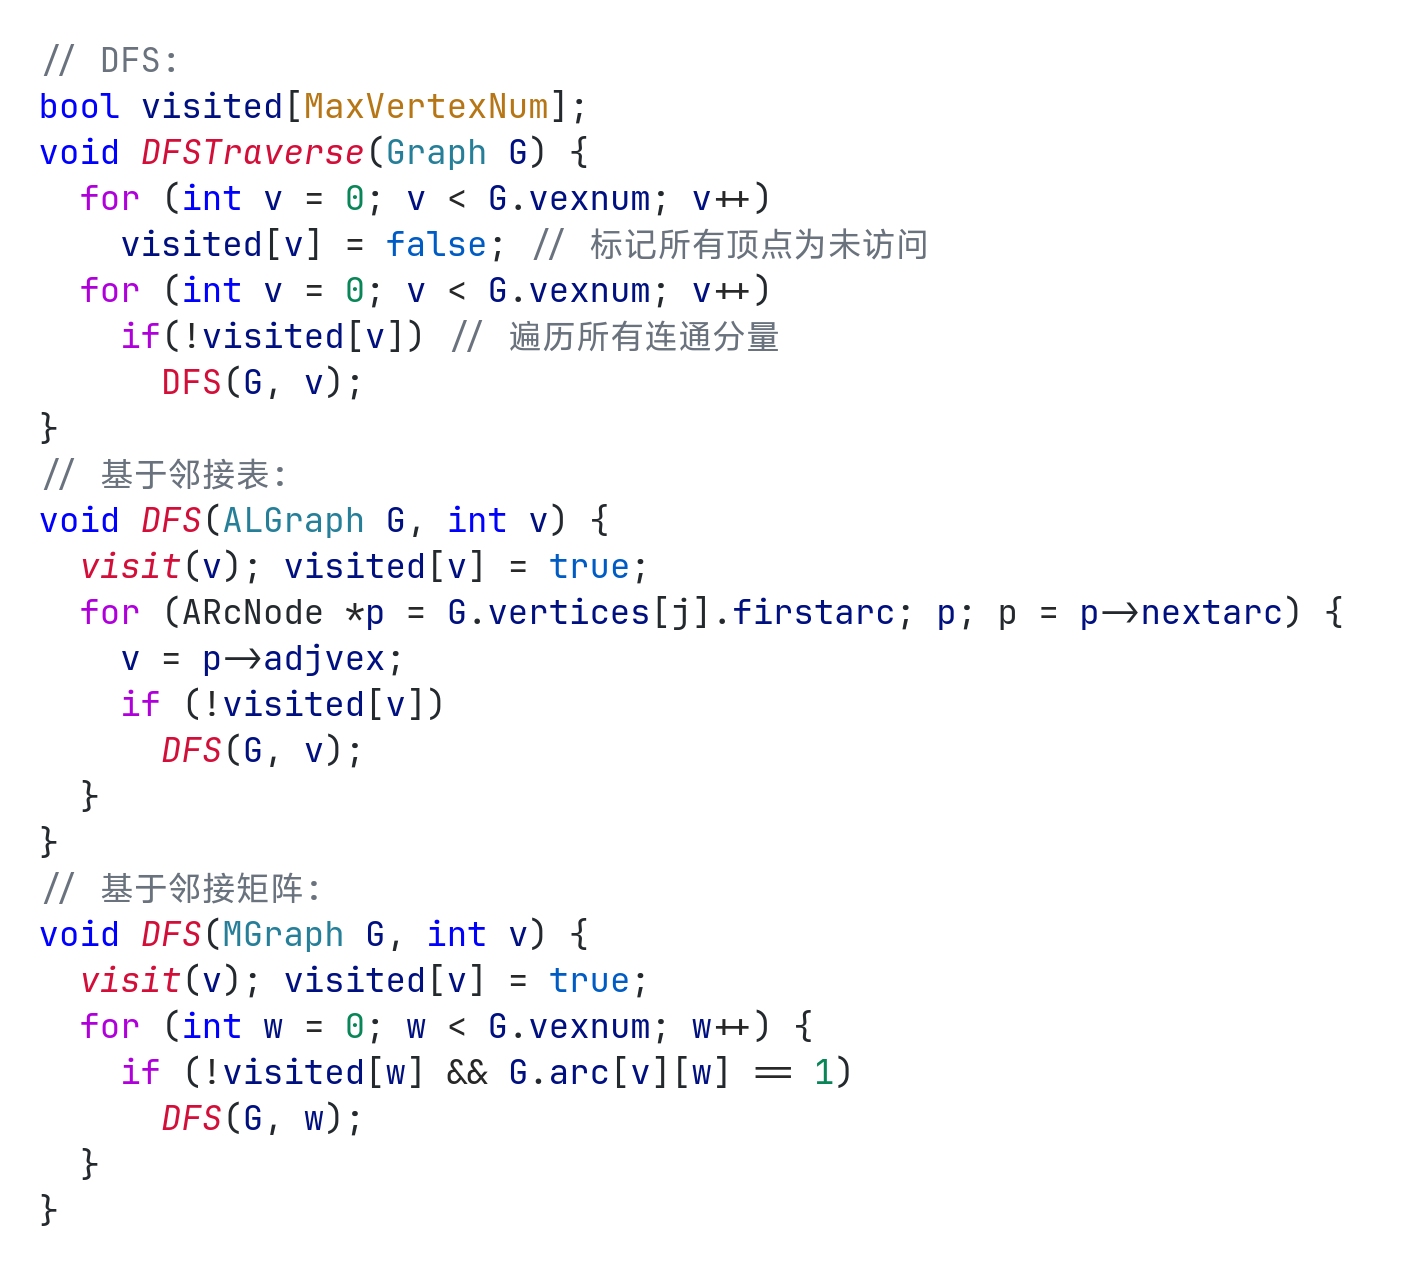
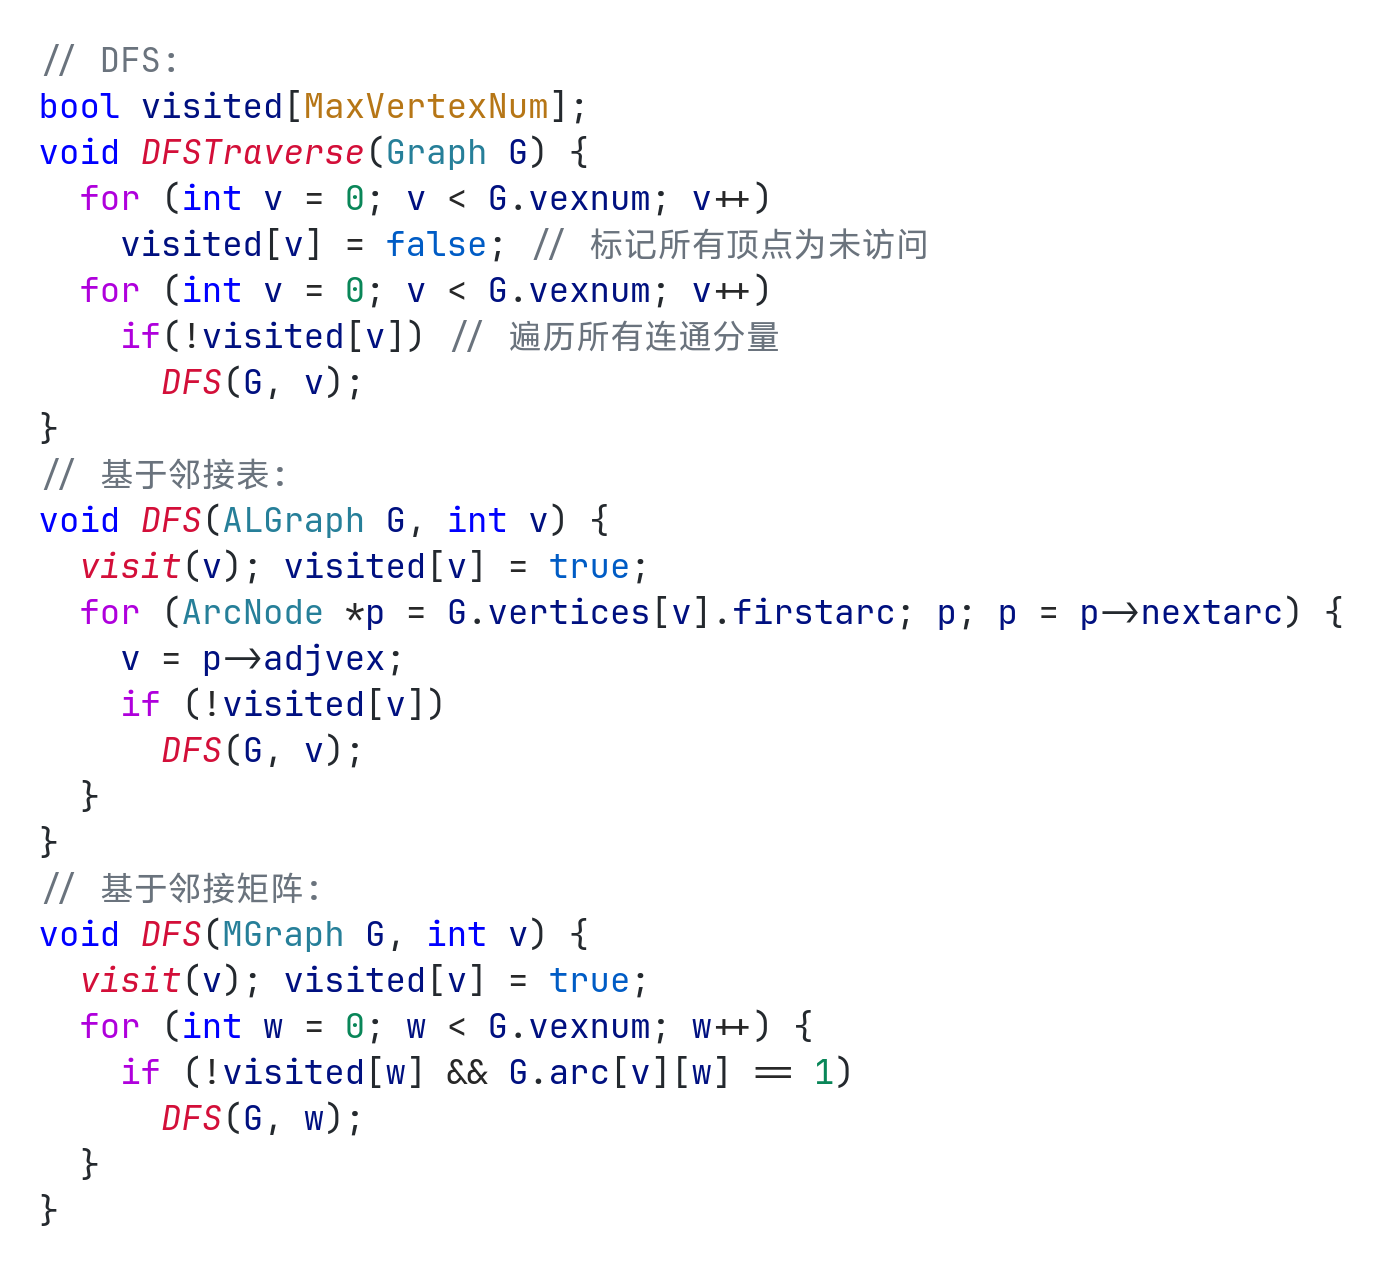
update: config

diff --git a/src/app/408/DataStructure/Chapter6.tsx b/src/app/408/DataStructure/Chapter6.tsx
@@ -39,7 +39,7 @@ export default function Chapter6() {
         <blockquote className="mt-3 mb-3">
           对于含n个顶点的无向图F: 若 E(F) &lt; n-1 则一定不是连通图; 若 E(F) &gt; n-1 则 F 中一定有环路; 若 E(F) &ge; <Latex>{`$\\frac{(n-1)(n-2)}{2}+1$`}</Latex> 则一定为连通图. <br />
         </blockquote>
-        生成树、生成森林 (无向图): 只有连通图才有生成树, 其等价于<strong>连通图</strong>的极小连通子图(若连通图的顶点数为n, 其生成树有且只有n-1条边); 图的所有连通分量的生成树构成图的生成森林.(若图的顶点数为n, 有k个连通分量, 则其生成森林含有n-k条边) <br />
+        生成树、生成森林(对于无向图): 只有连通图才能有生成树. <strong>连通图的生成树 = 连通图的极小连通子图</strong>(若连通图的顶点数为n, 其生成树有且只有n-1条边); 图的所有连通分量的生成树构成图的生成森林.(若图的顶点数为n, 有k个连通分量, 则其生成森林含有n-k条边) <br />
         <blockquote className="mt-3 mb-3">
           非连通情况下边最多的情况: 由n-1个顶点构成一个完全图, 此时再加入一个顶点变成非连通图; 若非连通图中有|E|条边, 令 <Latex>{`$\\frac{n(n-1)}{2}=|E|$`}</Latex>, 则此非连通图至少有 <Latex>{`$\\lceil n\\rceil + 1$`}</Latex> 个顶点. <br />
           <div className="h-2" />
@@ -165,7 +165,7 @@ export default function Chapter6() {
         <div className="h-2" />
         BFS计算单源最短路径长度: <br />
         {Img({src: "Images/408/DataStructure/BFS单源最短路径长度.png", width: 760, align: "left", className: "m-0 mb-1"})}
-        <blockquote className="mt-3 mb-3">BFS只适合求边权值相等的图的单源最短路径长度.</blockquote>
+        <blockquote className="mt-3 mb-3">BFS只适合求边权值相等的图的单源最短路径长度(经过最少边数).</blockquote>
         <div className="h-2" />
         广度优先生成树: <br />
         在广度遍历的过程中, 会得到一棵遍历树/森林, 称为广度优先生成树/广度优先生成森林. 需要注意的是, 同一个图的邻接矩阵存储表示是唯一的, 所以其广度优先生成树也是唯一的; 但邻接表的存储表示不唯一, 其广度优先生成树不唯一.
@@ -179,10 +179,10 @@ export default function Chapter6() {
       <p className="text-[#001080]"> 
         <span className="text-lg">判断环路:</span>
         <div className="h-2"/>
-        对于存在环的一个连通无向图(一个连通分量), 从任意顶点出发, 一定能在DFS的一次搜索过程中检测到环. 注意要特别排除一条路径中下一个顶点指向上一个顶点的情况, 因为无向图中相邻顶点本来就相当于有向图的一个环. (BFS不方便判断第二次遇到的顶点是否为同一条路径中的上一个顶点) <br />
+        对于存在环的一个连通无向图(一个连通分量), 从任意顶点出发, 一定能在DFS算法的一次搜索过程中检测到环. 注意要特别排除一条路径中下一个顶点指向上一个顶点的情况, 因为无向图中相邻顶点本来就相当于有向图的一个环. (BFS不方便判断第二次遇到的顶点是否为同一条路径中的上一个顶点) <br />
         <div className="h-2"/>
         对于不存在环的一个有向图, DFS的一次搜索过程中仍可以遇到访问过的顶点(汇聚点). <br /> 
-        除了visited数组外, 再用一个栈来记录同一条搜索路径中的前缀顶点; 如果从任意顶点v出发二次遇到同一条搜索路径中的顶点(已访问且未出栈的顶点), 则说明存在环路. <br />
+        除了visited数组外, 再用一个数组(栈)来记录同一条搜索路径中的前缀顶点; 如果从任意顶点v出发二次遇到同一条搜索路径中的顶点(已访问且未出栈的顶点), 则说明存在环路. <br />
         可以证明, 对于一个有向图, 可以通过一次DFS算法(可以包含n次深度优先搜索过程)判断其是否存在环路. <br />
       </p>
       <details open>
@@ -190,13 +190,25 @@ export default function Chapter6() {
         <div className="pl-6">
           {Img({src: "Images/408/DataStructure/Exercises/6_3_2.png", width: 700, align: "left", className: "m-0 mt-1"})}
           说法正确的是: 第三句.
+          <hr className="m-3 ml-[-6px]" />
           {Img({src: "Images/408/DataStructure/Exercises/6_3_4.png", width: 700, align: "left", className: "m-0 mt-1"})}
           {Img({src: "Images/408/DataStructure/Exercises/6_3_6.png", width: 700, align: "left", className: "m-0 mt-1"})}
           答案: C A C A A A
+          <hr className="m-3 ml-[-6px]" />
           {Img({src: "Images/408/DataStructure/Exercises/6_3_10.png", width: 700, align: "left", className: "m-0 mt-1"})}
           {Img({src: "Images/408/DataStructure/Exercises/6_3_16to17.png", width: 700, align: "left", className: "m-0 mt-1"})}
           答案: A B D D
           <hr className="m-3 ml-[-6px]" />
+          {Img({src: "Images/408/DataStructure/Exercises/6_3_12to14.png", width: 700, align: "left", className: "m-0 mt-1"})}
+          答案: C B A
+          <hr className="m-3 ml-[-6px]" />
+          {Img({src: "Images/408/DataStructure/Exercises/6_3_02.png", width: 700, align: "left", className: "m-0 mt-1"})}
+          答案:
+          {Img({src: "Images/408/DataStructure/Exercises/Solve_6_3_02.png", width: 700, align: "left", className: "m-0 mt-1"})}
+          <hr className="m-3 ml-[-6px]" />
+          {Img({src: "Images/408/DataStructure/Exercises/6_3_03.png", width: 700, align: "left", className: "m-0 mt-1"})}
+          答案:
+          {Img({src: "Images/408/DataStructure/Exercises/Solve_6_3_03.png", width: 700, align: "left", className: "m-0 mt-1"})}
         </div>
       </details>
     </div>

diff --git a/src/app/configs/ArchlinuxConfig.tsx b/src/app/configs/ArchlinuxConfig.tsx
@@ -170,6 +170,18 @@ export default function ArchLinuxConfig() {
         bind = $mainMod SHIFT, 4, exec, grim -g "$(slurp)" - | wl-copy<br />
         # make fcitx5 more stable<br />
         windowrule=pseudo,fcitx;<br />
+        <br />
+        windowrule = float, title:^(wezterm)$ <br />
+        # zen-browser <br />
+        windowrule = float, title:^(我的足迹)$ <br />
+        windowrule = float, title:^()$ <br />
+        <br />
+        # 光标主题: <br />
+        # 注意: 修改基于gtk的程序光标需要在 ~/.config/gtk-3.0/settings.ini 中设置: gtk-cursor-theme-name=Bibata-Modern-Ice  <br /> 
+        # (gtk程序外观主题也在上述配置文件中设置, 主题文件一般在"/usr/share/themes/") <br />
+        env = HYPRCURSOR_THEME,Bibata-Modern-Ices <br />
+        env = HYPRCURSOR_SIZE,24 <br />
+        exec-once=hyprctl setcursor Bibata-Modern-Ices 24 <br />
       </p>
       <h3>代理</h3>
       <p>
@@ -526,6 +538,8 @@ export default function ArchLinuxConfig() {
         export MANPAGER="nvim +Man!" <br />
         alias suspend="systemctl suspend" <br />
         alias reload="hyprctl reload" <br />
+
+        alias rm="trash" # using trash-cli <br />
       </p>
       <h2>rofi.rasi: </h2>
       <p className="whitespace-pre-line">

diff --git a/public/Code/graph.cpp b/public/Code/graph.cpp
@@ -120,8 +120,9 @@ void BFSMinDistance(Graph G, int v) {
 }
 
 
+void DFS(MGraph G, int v);
 // DFS:
-bool visited[MaxVertexNum];
+// bool visited[MaxVertexNum];
 void DFSTraverse(Graph G) {
   for (int v = 0; v < G.vexnum; v++)
     visited[v] = false; // 标记所有顶点为未访问
@@ -132,7 +133,7 @@ void DFSTraverse(Graph G) {
 // 基于邻接表:
 void DFS(ALGraph G, int v) {
   visit(v); visited[v] = true;
-  for (ARcNode *p = G.vertices[j].firstarc; p; p = p->nextarc) {
+  for (ArcNode *p = G.vertices[v].firstarc; p; p = p->nextarc) {
     v = p->adjvex;
     if (!visited[v])
       DFS(G, v);
